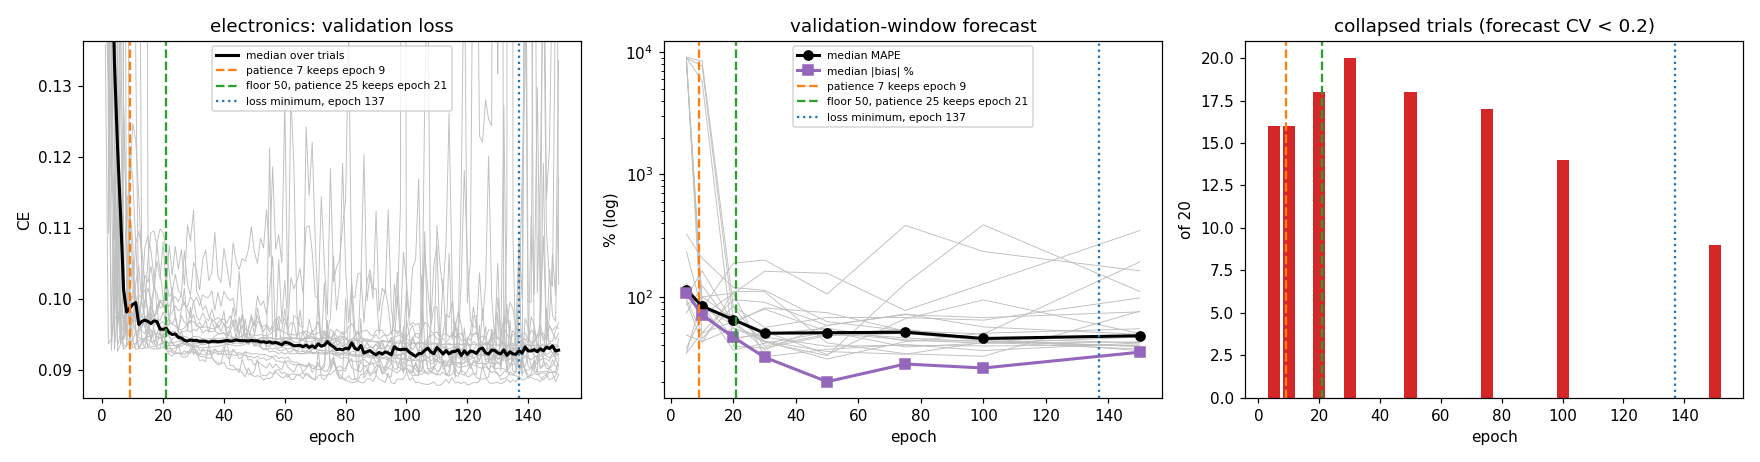
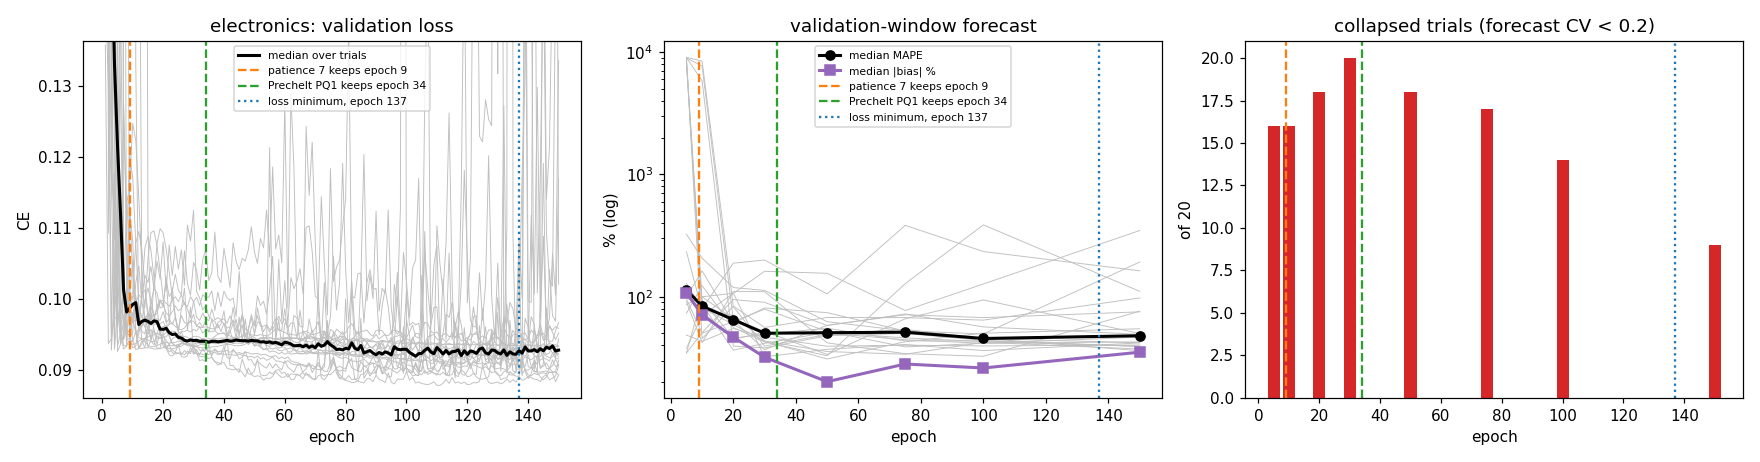
hyperparameter-search §5.2: test Prechelt's (1998) GL, PQ and UP stopping criteria on the probe curves and report all of them; PQ works best (PQ1 chosen) and GL fails on the noisy validation loss. Drop the self-made floor/patience rule from the doc and the report

diff --git a/scripts/run_epoch_probe.py b/scripts/run_epoch_probe.py
@@ -203,24 +203,62 @@ def check_complete() -> int:
 # ---------------------------------------------------------------------------
 
 
-def replay_stopping(val: np.ndarray, floor: int = 0,
-                    patience: int = PATIENCE) -> tuple[int, int]:
-    """(stop epoch, kept epoch), 1-based, under `fit_model`'s rule with `min_epochs=floor`."""
+def replay_stopping(val: np.ndarray) -> tuple[int, int]:
+    """(stop epoch, kept epoch), 1-based, under `fit_model`'s rule: patience 7, no floor."""
     best, best_epoch, waited = np.inf, 0, 0
     for e, v in enumerate(val, start=1):
         if v + MIN_DELTA < best:
             best, best_epoch, waited = v, e, 0
         else:
             waited += 1
-        if e >= floor and waited >= patience:
+        if waited >= PATIENCE:
             return e, best_epoch
     return len(val), best_epoch
 
 
-# The stopping rule chosen from the validation loss alone (§5.2): the cheapest floor and
-# patience that end the median run within 1% of its own loss minimum on every panel.
-# Drawn against the current rule in the figures.
-PROPOSED_FLOOR, PROPOSED_PATIENCE = 50, 25
+# Prechelt (1998), "Early Stopping -- But When?": three families of stopping criteria,
+# each read off the validation and training loss alone. The weights kept are always those
+# of the lowest validation loss so far.
+#   GL_a  generalisation loss: stop once the validation loss is more than a% above its
+#         best so far.
+#   PQ_a  progress quotient: stop once that generalisation loss, divided by the training
+#         progress over the last strip of K epochs, exceeds a -- it waits while training
+#         is still improving.
+#   UP_s  stop once the validation loss has risen at the end of s successive strips.
+STRIP = 5                       # Prechelt's strip length K
+PRECHELT = [("GL", 1), ("GL", 2), ("GL", 3), ("GL", 5),
+            ("PQ", 0.5), ("PQ", 1), ("PQ", 2), ("PQ", 3),
+            ("UP", 2), ("UP", 3), ("UP", 4)]
+CHOSEN = ("PQ", 1)              # the criterion §5.2 recommends, marked in the figures
+
+
+def replay_prechelt(val: np.ndarray, train: np.ndarray, criterion: str,
+                    alpha: float) -> tuple[int, int]:
+    """(stop epoch, kept epoch), 1-based, under one of Prechelt's criteria."""
+    best, best_epoch, ups, last_strip = np.inf, 0, 0, None
+    for t in range(1, len(val) + 1):
+        if val[t - 1] < best:
+            best, best_epoch = val[t - 1], t
+        gl = 100 * (val[t - 1] / best - 1)
+        if criterion == "GL" and gl > alpha:
+            return t, best_epoch
+        if t % STRIP == 0:
+            strip = train[t - STRIP:t]
+            progress = 1000 * (strip.sum() / (STRIP * strip.min()) - 1)
+            if criterion == "PQ" and progress > 0 and gl / progress > alpha:
+                return t, best_epoch
+            if criterion == "UP":
+                ups = ups + 1 if last_strip is not None and val[t - 1] > last_strip else 0
+                last_strip = val[t - 1]
+                if ups >= alpha:
+                    return t, best_epoch
+    return len(val), best_epoch
+
+
+def score_at(rollouts: pd.DataFrame, epoch: int) -> pd.Series:
+    """The validation rollout at the latest recorded checkpoint at or before `epoch`."""
+    earlier = [c for c in rollouts.index if c <= epoch]
+    return rollouts.loc[earlier[-1]] if earlier else rollouts.iloc[0]
 
 
 def first_stable(epochs: list[int], rhos: list[float], level: float = 0.8) -> float:
@@ -296,9 +334,8 @@ def report(out_dir: Path) -> None:
 
         # Where each stopping rule would end, replayed on the recorded curves.
         kept_now = int(np.median([replay_stopping(h.val_loss.values)[1] for h in hist.values()]))
-        kept_new = int(np.median([replay_stopping(h.val_loss.values, PROPOSED_FLOOR,
-                                                  PROPOSED_PATIENCE)[1]
-                                  for h in hist.values()]))
+        kept_new = int(np.median([replay_prechelt(h.val_loss.values, h.train_loss.values,
+                                                  *CHOSEN)[1] for h in hist.values()]))
         own_best = int(pt.best.median())
         B = pd.DataFrame({t: r.set_index("epoch").bias_percent.abs() for t, r in roll.items()})
         C = pd.DataFrame({t: r.set_index("epoch").forecast_cv for t, r in roll.items()})
@@ -316,8 +353,7 @@ def report(out_dir: Path) -> None:
             a.axvline(kept_now, color="tab:orange", ls="--",
                       label=f"patience 7 keeps epoch {kept_now}")
             a.axvline(kept_new, color="tab:green", ls="--",
-                      label=f"floor {PROPOSED_FLOOR}, patience {PROPOSED_PATIENCE} "
-                            f"keeps epoch {kept_new}")
+                      label=f"Prechelt {CHOSEN[0]}{CHOSEN[1]} keeps epoch {kept_new}")
             a.axvline(own_best, color="tab:blue", ls=":", label=f"loss minimum, epoch {own_best}")
         # The first epochs sit orders of magnitude above the rest; scale to what follows
         # them so the late differences between trials are visible.
@@ -337,31 +373,52 @@ def report(out_dir: Path) -> None:
     print(table.to_string())
     table.to_csv(out_dir / "summary.csv")
 
-    # The stopping rule from the validation loss alone (§5.2): replay every floor x
-    # patience on the recorded curves; a setting passes if, on every panel, the median run
-    # ends within 1% of its own loss minimum; choose the cheapest by epochs trained.
-    curves = {(panel, t): pd.read_csv(suite_dir(panel, t) / "history.csv").val_loss.values
-              for panel in PANELS for t in range(N_TRIALS)
-              if (suite_dir(panel, t) / "results.csv").exists()}
-    grid = []
-    for floor in (0, 30, 50, 75, 100, 150):
-        for patience in (7, 15, 25, 40):
-            row, cost = {"floor": floor, "patience": patience}, []
-            for panel in PANELS:
-                runs = [(v, replay_stopping(v, floor, patience))
-                        for (p, _), v in curves.items() if p == panel]
-                row[panel] = float(np.median([(v[kept - 1] - v.min()) / v.min() * 100
-                                              for v, (_, kept) in runs]))
-                cost += [stop for _, (stop, _) in runs]
-            row["passes"] = all(row[p] <= 1.0 for p in PANELS)
-            row["epochs trained"] = float(np.mean(cost))
-            grid.append(row)
-    grid = pd.DataFrame(grid)
-    print("\nStopping rule from the validation loss alone: % above each run's own loss minimum")
-    print(grid.round(2).to_string(index=False))
-    chosen = grid[grid.passes].sort_values("epochs trained").iloc[0]
-    print(f"cheapest passing: floor {int(chosen.floor)}, patience {int(chosen.patience)}")
-    grid.to_csv(out_dir / "stopping_rule_grid.csv", index=False)
+    # Prechelt's criteria (§5.2), replayed on every recorded curve and scored afterwards
+    # on the validation-window rollout at the epoch each keeps. The current rule and the
+    # oracle (the single checkpoint with the best median validation MAPE) frame them.
+    runs = {}
+    for panel in PANELS:
+        for t in range(N_TRIALS):
+            d = suite_dir(panel, t)
+            if (d / "results.csv").exists():
+                runs[(panel, t)] = (pd.read_csv(d / "history.csv"),
+                                    pd.read_csv(d / "rollouts.csv").set_index("epoch"))
+    rules = [("current: patience 7", lambda h: replay_stopping(h.val_loss.values))]
+    rules += [(f"{c}{a}", lambda h, c=c, a=a: replay_prechelt(
+        h.val_loss.values, h.train_loss.values, c, a)) for c, a in PRECHELT]
+    table = []
+    for name, rule in rules:
+        row, cost = {"rule": name}, []
+        for panel in PANELS:
+            mine = [(h, r, rule(h)) for (p, _), (h, r) in runs.items() if p == panel]
+            sc = [score_at(r, kept) for _, r, (_, kept) in mine]
+            gap = [(h.val_loss.values[kept - 1] - h.val_loss.min()) / h.val_loss.min() * 100
+                   for h, _, (_, kept) in mine]
+            row[f"{panel} MAPE"] = float(np.median([x.mape_aggregate for x in sc]))
+            row[f"{panel} |bias|"] = float(np.median([abs(x.bias_percent) for x in sc]))
+            row[f"{panel} Spearman"] = float(np.median([x.spearman for x in sc]))
+            row[f"{panel} collapsed"] = int(sum(x.forecast_cv < 0.2 for x in sc))
+            row[f"{panel} epoch"] = float(np.median([kept for _, _, (_, kept) in mine]))
+            row[f"{panel} gap %"] = float(np.median(gap))
+            cost += [stop for _, _, (stop, _) in mine]
+        row["epochs trained"] = float(np.mean(cost))
+        table.append(row)
+    oracle = {"rule": "oracle: best fixed checkpoint"}
+    for panel in PANELS:
+        R = {t: r for (p, t), (_, r) in runs.items() if p == panel}
+        med = pd.DataFrame({t: r.mape_aggregate for t, r in R.items()}).median(axis=1)
+        e = med.idxmin()
+        oracle[f"{panel} MAPE"] = float(med.min())
+        oracle[f"{panel} |bias|"] = float(np.median([abs(r.loc[e].bias_percent) for r in R.values()]))
+        oracle[f"{panel} Spearman"] = float(np.median([r.loc[e].spearman for r in R.values()]))
+        oracle[f"{panel} collapsed"] = int(sum(r.loc[e].forecast_cv < 0.2 for r in R.values()))
+        oracle[f"{panel} epoch"] = float(e)
+    table.append(oracle)
+    table = pd.DataFrame(table)
+    print("\nStopping criteria (Prechelt 1998) on the validation-window forecast")
+    print(table[["rule", "epochs trained"] + [f"{p} MAPE" for p in PANELS]
+                + [f"{p} epoch" for p in PANELS]].round(1).to_string(index=False))
+    table.to_csv(out_dir / "stopping_criteria.csv", index=False)
 
     pred = pd.DataFrame(predict)
     print("\nDoes CE at epoch t predict the final validation rollout (epoch 150)?")

diff --git a/docs/hyperparameter-search.md b/docs/hyperparameter-search.md
@@ -196,7 +196,7 @@ kept epoch the search picks, the number of collapsed runs, and GPU time per stud
 | # | Test | Changes | Question |
 | --- | --- | --- | --- |
 | 0 | **Epoch probe** (§5.1) | nothing; every trial trains 150 epochs and its curve is recorded | when do trials become distinguishable, and when does a single run leave its flat start? Sets the pruner's warm-up and `min_epochs` from data |
-| 1 | **Current vs new settings** | the fixed score plus a `min_epochs` floor set by test 0, ValendinLSTM, all four panels | do the two changes together improve the forecast? Baseline: family U `archive` · no cluster label (no rerun needed) |
+| 1 | **Current vs new settings** | the fixed score, Prechelt's PQ1 stopping rule (§5.2) and no pruning, ValendinLSTM, all four panels | do the changes together improve the holdout forecast? Baseline: family U `archive` · no cluster label (no rerun needed) |
 | 2 | **Pruner** | current `MedianPruner` vs `HyperbandPruner` (`min_resource` from test 0, η = 3) vs none | does pruning at epoch 4 discard trials that would have won, and does pruning pay at all? |
 | 2b | **Hyperband η** | η = 3 vs η = 2, only if test 2 favours Hyperband | does gentler pruning change the winners? |
 | 3 | **Improvement threshold** | absolute 1e-4 vs a relative one, on multichannel | does the 4× stricter rule cut multichannel's training short? |
@@ -250,8 +250,7 @@ archive) were set by convention or precedent. Both should be set where the curve
   agreement across the four panels is what counts.
 - Plots of validation loss and rollout MAPE against epoch, one line per trial.
 
-The floor it gives replaces the 50 proposed for test 1, and the warm-up gives test 2's
-`min_resource`.
+It also gives test 2's warm-up; the stopping rule for test 1 is chosen in §5.2.
 
 #### Results (6 October 2026)
 
@@ -320,8 +319,8 @@ final rollout poorly (ρ −0.2 to +0.6): forecasts reorder as training goes on.
   warm-up of 3 judges trials 20–70 epochs before their CE ranking settles, on a number
   that does not predict the forecast on two of four panels. Test 2 becomes current rule
   against no pruning; Hyperband only with `min_resource` ≥ 50.
-- **Floor and patience (test 1): set in §5.2** by a rule on the validation loss alone,
-  which picks floor 50 with patience 25.
+- **Stopping rule (test 1): set in §5.2,** where Prechelt's (1998) criteria are compared
+  and PQ1 is chosen.
 
 Limits: ValendinLSTM only; 20 trials, so a single correlation carries about ±0.4; the
 rollouts are of the trained weights without the ADR-0008 refit; the archive search
@@ -348,35 +347,31 @@ before they are cited in the thesis.
 
 #### The procedure, applied
 
-Each decision is a rule stated before its result is looked at, and uses calibration data
-only.
+Both decisions use calibration data only.
 
-1. **Pruner — rule: prune on CE only once the CE ranking of trials has settled and early
-   CE predicts the final validation forecast.** Uses the validation-loss curves and the
-   validation-window rollouts. The ranking settles at epoch 24–76, and early CE predicts
-   the final forecast on multichannel only (§5.1). **Decision: pruning off.**
-2. **Stopping rule — rule: the cheapest floor and patience under which, on every panel,
-   the median run ends within 1% of its own validation-loss minimum.** Uses the
-   validation-loss curves only: `fit_model`'s rule is replayed on the 80 recorded curves
-   for floors {0, 30, 50, 75, 100, 150} × patience {7, 15, 25, 40}, and cost is the mean
-   number of epochs trained. Patience 7 with no floor ends runs 3–7% above their minimum
-   and fails on every panel. Twelve settings pass; the cheapest is **floor 50, patience
-   25** (83 epochs per run on average). Floor 100 with patience 7, proposed earlier from
-   the forecast table, also passes (102 epochs).
-3. **Check — only afterwards — against the validation-window forecast.** Still
-   calibration data, but not used to choose.
-
-An earlier draft of this section proposed floor 100 after reading the validation-forecast
-table, then checked it against the same table. That check was not independent of the
-choice; the loss-only rule above is.
+1. **Pruner.** Multi-fidelity methods assume trials rank early as they will at the end.
+   On the probe curves the CE ranking settles only at epoch 24–76, and early CE predicts
+   the final validation forecast on multichannel only (§5.1). **Decision: pruning off.**
+2. **Stopping rule: the criteria of Prechelt (1998).** That paper defines three families
+   of early-stopping criteria and compares them; all read only the validation and training
+   loss. Each was replayed on the 80 recorded curves, keeping as `fit_model` does the
+   weights of the lowest validation loss so far, then scored on the validation-window
+   forecast at the epoch it keeps:
+   - **GLα, generalisation loss:** stop once the validation loss is more than α% above
+     its best so far.
+   - **PQα, progress quotient:** stop once that generalisation loss divided by the
+     training progress over the last 5 epochs exceeds α. It holds off while the training
+     loss is still falling.
+   - **UPs:** stop once the validation loss has risen at the end of s successive 5-epoch
+     strips.
 
 #### The curves
 
 Each figure: left, the validation loss of the 20 trials (grey) and their median (black);
 middle, the median validation-window MAPE and |bias| (trials in grey); right, how many of
 the 20 trials have collapsed (forecast CV < 0.2). Dashed lines mark the median epoch kept
-by the current rule (orange) and by the loss-only rule of floor 50, patience 25 (green); the dotted line is the
-median epoch of the loss minimum. Regenerate with
+by the current rule (orange) and by Prechelt's PQ1 (green); the dotted line is the median
+epoch of the loss minimum. Regenerate with
 `python scripts/run_epoch_probe.py --report --out docs/figures/epoch-probe`.
 
 ![CDNOW](figures/epoch-probe/cdnow.png)
@@ -389,47 +384,68 @@ median epoch of the loss minimum. Regenerate with
 
 #### Did it work?
 
-Validation-window MAPE at the epoch each rule keeps, medians over the 20 trials, with the
-median epoch kept and the number of collapsed trials. The *oracle* is the single
-checkpoint with the best median validation forecast: the best any fixed-epoch rule could
-do on this window, chosen by looking at the forecast, which the loss-only rule does not.
+Validation-window MAPE at the epoch each criterion keeps, medians over the 20 trials per
+panel, with the median epoch kept in brackets. *Epochs trained* is the mean over all 80
+runs, the cost. The *oracle* is the single checkpoint with the best median validation
+forecast: the best a fixed epoch for all trials could do on this window, chosen by looking
+at the forecast, which the criteria do not.
 
-| rule | cdnow | electronics | gift | multichannel |
-| --- | --- | --- | --- | --- |
-| current: patience 7, no floor | 65.1 (epoch 12; 4 collapsed) | 79.3 (9; 17) | 78.0 (6; 19) | 99.3 (8; 9) |
-| **loss-only rule: floor 50, patience 25** | **44.4** (51; 0) | **44.2** (21; 14) | **46.0** (73; 17) | **70.2** (51; 14) |
-| also passes: patience 40, no floor | 44.4 (56; 0) | 49.4 (19; 12) | 43.5 (89; 18) | 67.4 (58; 11) |
-| also passes: floor 100, patience 7 | 44.9 (65; 0) | 43.7 (88; 14) | 46.6 (87; 16) | 63.6 (87; 9) |
-| oracle | 46.1 (epoch 30) | 45.5 (100) | 38.8 (150) | 56.4 (150) |
+| criterion | cdnow | electronics | gift | multichannel | epochs trained |
+| --- | --- | --- | --- | --- | ---: |
+| current: patience 7 | 65.1 (12) | 79.3 (9) | 78.0 (6) | 99.3 (8) | 19 |
+| GL1 | 65.1 (3) | 113.7 (5) | 93.0 (3) | 143.2 (5) | 7 |
+| GL2 | 65.1 (5) | 113.7 (5) | 88.9 (3) | 143.2 (5) | 8 |
+| GL3 | 65.1 (5) | 113.7 (5) | 83.5 (3) | 143.2 (5) | 10 |
+| GL5 | 55.7 (5) | 113.7 (5) | 74.9 (7) | 101.4 (5) | 25 |
+| PQ0.5 | 43.1 (24) | 50.2 (12) | 49.8 (45) | 64.6 (64) | 56 |
+| **PQ1** | **40.8** (33) | **41.9** (35) | **41.7** (68) | **62.6** (96) | **80** |
+| PQ2 | 37.2 (34) | 43.7 (93) | 41.1 (84) | 61.2 (107) | 103 |
+| PQ3 | 42.7 (38) | 43.7 (93) | 41.1 (84) | 58.4 (123) | 111 |
+| UP2 | 42.5 (39) | 42.7 (19) | 41.7 (47) | 65.6 (55) | 58 |
+| UP3 | 42.7 (58) | 50.3 (27) | 41.7 (97) | 63.5 (98) | 102 |
+| UP4 | 44.4 (62) | 49.9 (114) | 41.0 (121) | 56.7 (111) | 130 |
+| oracle | 46.1 (30) | 45.5 (100) | 38.8 (150) | 56.4 (150) | — |
 
-The forecast is scored at the latest checkpoint at or before each trial's kept epoch (the
+How far above its own loss minimum each run ends, median: patience 7 3–7%, GL 6–16%,
+PQ0.5 1–3%, PQ1 0–0.9%, PQ2 and PQ3 0–0.1%, UP 0–1.5%.
+
+PQ1 in full, against the current rule and the oracle (MAPE / |bias| % / Spearman /
+collapsed trials of 20):
+
+| panel | current: patience 7 | PQ1 | oracle |
+| --- | --- | --- | --- |
+| cdnow | 65.1 / 65.1 / 0.09 / 4 | **40.8 / 30.8 / 0.22 / 1** | 46.1 / 46.0 / 0.24 / 1 |
+| electronics | 79.3 / 64.6 / 0.02 / 17 | **41.9 / 15.8 / 0.04 / 17** | 45.5 / 26.1 / 0.07 / 14 |
+| gift | 78.0 / 35.1 / 0.00 / 19 | 41.7 / 21.7 / 0.01 / 18 | 38.8 / 14.6 / 0.09 / 9 |
+| multichannel | 99.3 / 80.5 / −0.00 / 9 | 62.6 / 24.8 / 0.00 / 7 | 56.4 / 28.0 / 0.03 / 6 |
+
+The forecast is scored at the latest checkpoint at or before each run's kept epoch (the
 rollout was recorded at 8 epochs only), so a kept epoch between checkpoints is scored a
 little early.
 
-- **CDNOW and electronics: yes.** The rule chosen from the loss alone reaches the oracle
-  (44.4 against 46.1, 44.2 against 45.5), from 65 and 79 under the current rule. On CDNOW
-  the loss turns back up when the model starts to over-fit, so a loss-based rule stops in
-  the right place without seeing a forecast.
-- **Gift: mostly.** 46.0 against an oracle of 38.8, from 78: 82% of the gap closed.
-- **Multichannel: partly.** 70.2 against 56.4, from 99: 68% of the gap closed. The loss is
-  within 1% of its minimum by epoch 51, but the forecast keeps improving to epoch 150. Here
-  the loss stops being informative before the forecast does; a tighter loss criterion
-  (0.5%) would select floor 75–100, which reaches 63.6.
-- **The rule picks a family, not a point.** Every passing setting lands within a few MAPE
-  points of the others on CDNOW, electronics and gift; on multichannel, longer is better.
-  The 1% threshold is itself a choice, and the one place the result depends on it is
-  multichannel.
-- **It does not fix customer ranking.** Spearman stays near 0 on electronics, gift and
-  multichannel under every rule, and 9–18 of 20 trials remain collapsed. Training longer
+- **GL fails.** The validation loss is noisy (the spikes in the figures), so it rises 1–5%
+  above its best within the first 3–5 epochs and GL stops the run there, worse than the
+  current rule.
+- **PQ works best.** PQ1 and PQ2 lower validation MAPE on every panel, from 65–99 under
+  the current rule to 37–63. They match or beat the oracle on CDNOW and electronics, and
+  close 86–94% of the gap to it on gift and multichannel. They can beat the oracle because
+  they stop each trial at its own moment, where the oracle uses one epoch for all. PQ suits
+  these curves: a slowly falling loss with noise on top, which PQ does not stop on while
+  training still makes progress.
+- **UP comes close but is less consistent:** UP2 is good on CDNOW and electronics but
+  weaker on multichannel; UP4 is good on multichannel but trains 130 epochs.
+- **Chosen: PQ1,** which is within 4 MAPE points of PQ2 on every panel at 80 epochs
+  against 103. The choice among α uses the validation forecast, which is calibration data.
+- **Ranking is not fixed.** Spearman stays near 0 on electronics, gift and multichannel
+  under every criterion, and 7–18 of 20 trials remain collapsed there. Training longer
   repairs the level of the forecast; ValendinLSTM without a customer-level input still
   cannot tell customers apart there (`docs/insight-training-efficiency.md` §8: the label
   is what lets it rank).
 
-**Conclusion.** For the pruner and the stopping rule, calibration data alone gives a
-defensible answer: the CE-ranking test turns pruning off, and the loss-only rule picks
-floor 50 with patience 25. Scored afterwards on the validation forecast, that rule matches
-the best fixed epoch on CDNOW and electronics, closes most of the gap on gift and two
-thirds of it on multichannel. Two things remain before it can be claimed for the holdout:
+**Conclusion.** Calibration data alone settles both: the multi-fidelity assumption fails
+on the validation curves, so pruning is off; and of Prechelt's published stopping criteria,
+PQ performs best on the validation forecast, with PQ1 the cheapest of the best. Two things
+remain before it can be claimed for the holdout:
 - **another validation window** (rolling origin): the same replay on an earlier window
   inside calibration, to show the choice is not specific to one window;
 - **one holdout test** with the settings frozen: test 1.
